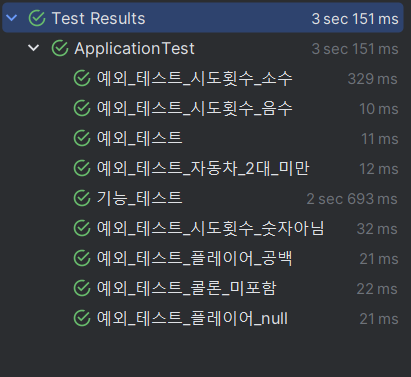
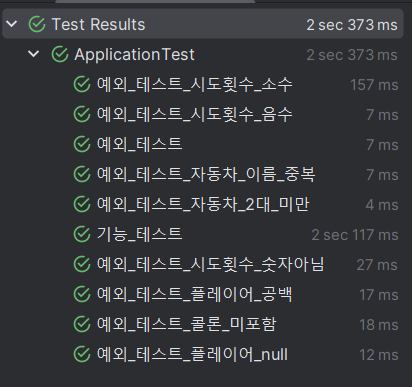
feat(exception): 플레이어의 이름이 중복될 경우 에러 처리 메서드 추가

diff --git a/src/test/java/racingcar/ApplicationTest.java b/src/test/java/racingcar/ApplicationTest.java
@@ -33,53 +33,67 @@ class ApplicationTest extends NsTest {
 
     @Test
     void 예외_테스트_자동차_2대_미만() {
-        assertSimpleTest(() -> assertThatThrownBy(() -> runException("povi", "1"))
+        assertSimpleTest(() ->
+            assertThatThrownBy(() -> runException("povi", "1"))
+                .isInstanceOf(IllegalArgumentException.class)
+        );
+    }
+
+    @Test
+    void 예외_테스트_자동차_이름_중복() {
+        assertSimpleTest(() ->
+            assertThatThrownBy(() -> runException("povi,povi", "1"))
                 .isInstanceOf(IllegalArgumentException.class)
         );
     }
 
     @Test
     void 예외_테스트_플레이어_공백() {
-        assertSimpleTest(() -> assertThatThrownBy(() -> runException("", "1"))
+        assertSimpleTest(() ->
+            assertThatThrownBy(() -> runException("", "1"))
                 .isInstanceOf(IllegalArgumentException.class)
         );
     }
 
     @Test
     void 예외_테스트_플레이어_null() {
-        assertSimpleTest(() -> assertThatThrownBy(() -> runException(null, "1"))
+        assertSimpleTest(() ->
+            assertThatThrownBy(() -> runException(null, "1"))
                 .isInstanceOf(IllegalArgumentException.class)
         );
     }
 
     @Test
     void 예외_테스트_콜론_미포함() {
-        assertSimpleTest(() -> assertThatThrownBy(() -> runException("povi.siyun", "1"))
+        assertSimpleTest(() ->
+            assertThatThrownBy(() -> runException("povi.eddy", "1"))
                 .isInstanceOf(IllegalArgumentException.class)
         );
     }
 
     @Test
     void 예외_테스트_시도횟수_숫자아님() {
-        assertSimpleTest(() -> assertThatThrownBy(() -> runException("povi,siyun", "a"))
+        assertSimpleTest(() ->
+            assertThatThrownBy(() -> runException("povi,eddy", "a"))
                 .isInstanceOf(IllegalArgumentException.class)
         );
     }
 
     @Test
     void 예외_테스트_시도횟수_음수() {
-        assertSimpleTest(() -> assertThatThrownBy(() -> runException("povi,siyun", "-1"))
+        assertSimpleTest(() ->
+            assertThatThrownBy(() -> runException("povi,eddy", "-1"))
                 .isInstanceOf(IllegalArgumentException.class)
         );
     }
 
     @Test
     void 예외_테스트_시도횟수_소수() {
-        assertSimpleTest(() -> assertThatThrownBy(() -> runException("povi,siyun", "3.14"))
+        assertSimpleTest(() ->
+            assertThatThrownBy(() -> runException("povi,eddy", "3.14"))
                 .isInstanceOf(IllegalArgumentException.class)
         );
     }
-
 
     @Override
     public void runMain() {

diff --git a/src/main/java/racingcar/util/Validation.java b/src/main/java/racingcar/util/Validation.java
@@ -1,5 +1,8 @@
 package racingcar.util;
 
+import java.util.ArrayList;
+import java.util.Collection;
+import java.util.Collections;
 import racingcar.constant.Constant;
 import racingcar.constant.ErrorMessage;
 
@@ -13,6 +16,15 @@ public class Validation {
     public void isPlayerCountValid(int playerCount) {
         if (playerCount < Constant.MIN_PLAYERS_COUNT) {
             throw new IllegalArgumentException(ErrorMessage.ERROR_MIN_CAR_COUNT);
+        }
+    }
+
+    public void isPlayerNameDuplicated(ArrayList<String> nameList) {
+        for (String name : nameList) {
+            int frequency = Collections.frequency(nameList, name);
+            if (frequency > 1) {
+                throw new IllegalArgumentException(ErrorMessage.ERROR_CAR_NAME_DUPLICATED);
+            }
         }
     }
 

diff --git a/src/main/java/racingcar/constant/ErrorMessage.java b/src/main/java/racingcar/constant/ErrorMessage.java
@@ -3,6 +3,7 @@ package racingcar.constant;
 public class ErrorMessage {
     public static final String ERROR_CAR_NAME_LENGTH = "플레이어의 이름은 5자 이상이 될 수 없습니다.";
     public static final String ERROR_MIN_CAR_COUNT = "플레이어의 수는 최소 2대 이상 이여야 합니다.";
+    public static final String ERROR_CAR_NAME_DUPLICATED = "플레이어의 이름은 중복될 수 없습니다.";
     public static final String ERROR_PLAYER_BLANK = "플레이어 입력 값은 공백이 될 수 없습니다.";
     public static final String ERROR_PLAYER_NULL = "플레이어 입력 값은 null이 될 수 없습니다.";
     public static final String ERROR_INPUT_DELIMITER = "입력 값에 구분자(,)가 반드시 포함되어야 합니다.";

diff --git a/src/main/java/racingcar/view/InputView.java b/src/main/java/racingcar/view/InputView.java
@@ -46,6 +46,7 @@ public class InputView {
             count++;
         }
         validation.isPlayerCountValid(count);
+        validation.isPlayerNameDuplicated(nameArray);
 
         return nameArray;
     }
